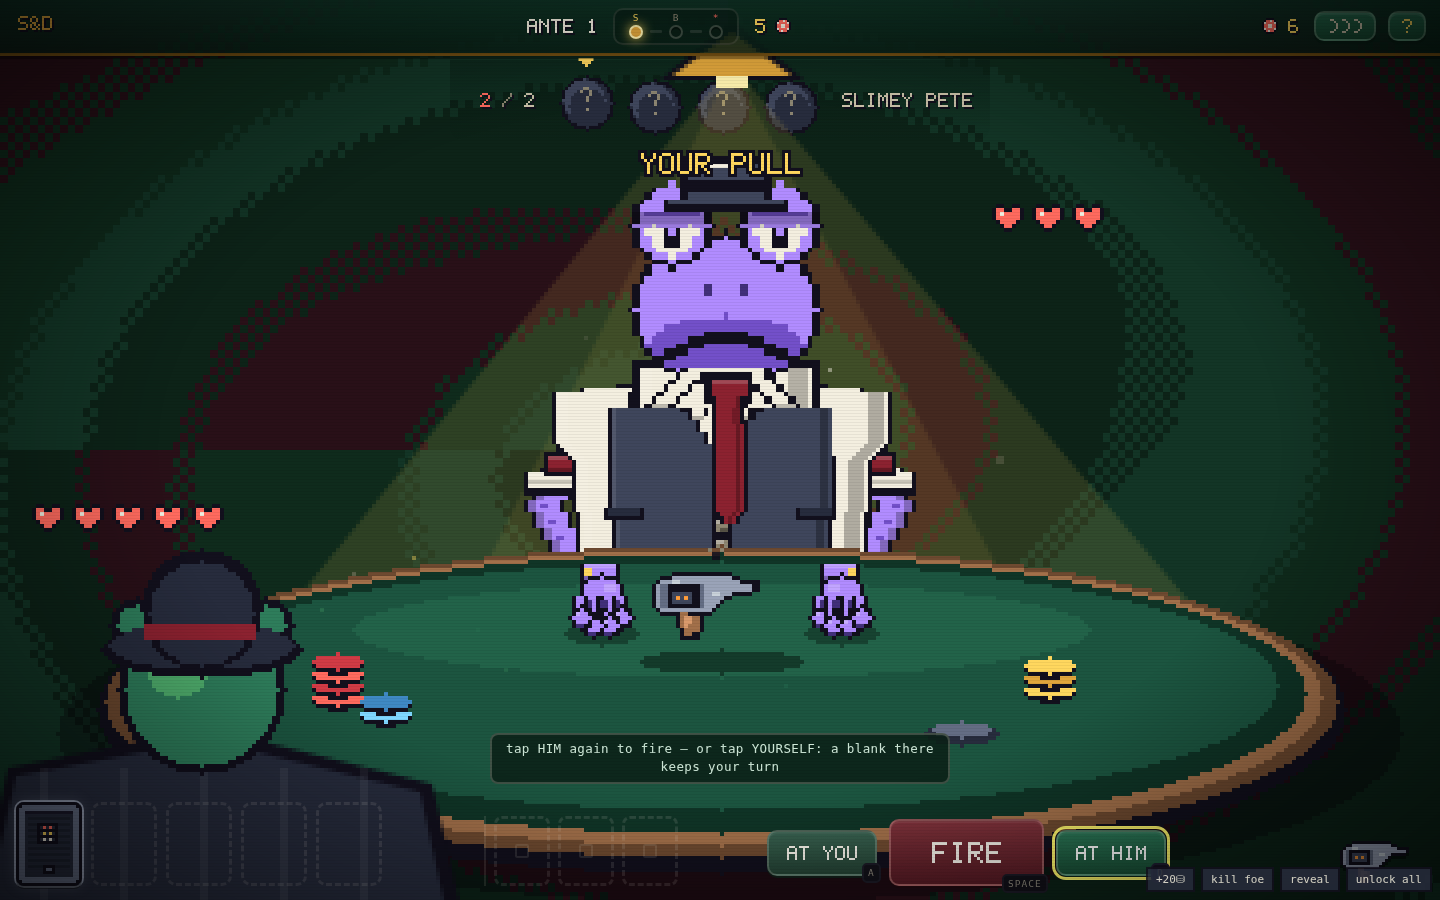
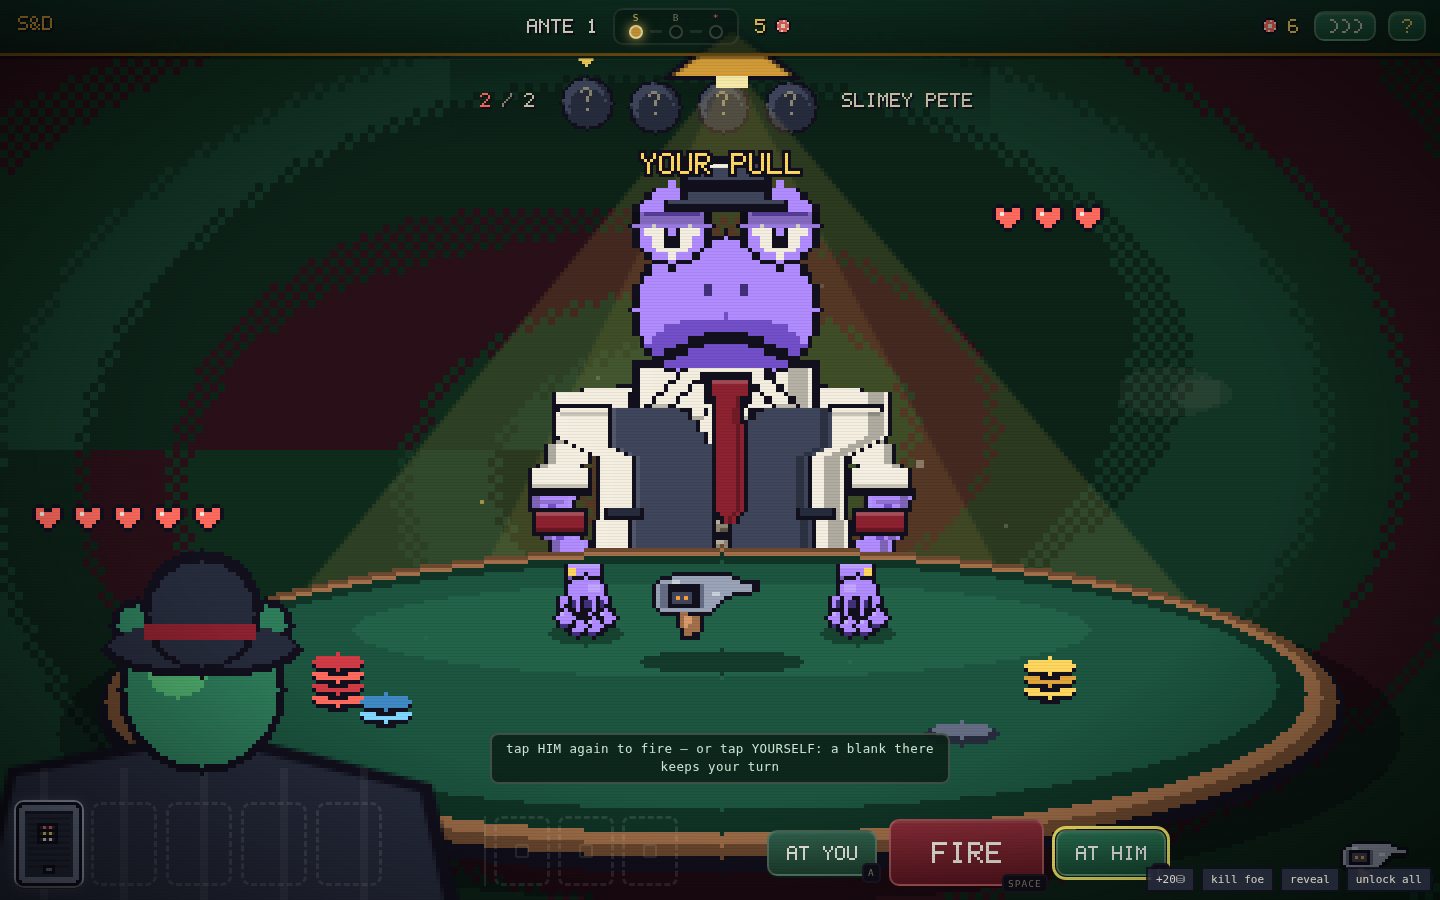
Fix the arms: upper arm behind, forearm in front, clear of the ribs
The arms were drawn but unreadable. Two causes, both fixed.

1. LAYERING. The whole arm was composited behind the torso, so its ink
   outline was hidden and each sleeve read as another panel of jacket,
   with the hands floating in front of the chest. Real anatomy for
   someone leaning on a table is split: the sleeve head tucks UNDER the
   coat's padded shoulder cap, and the FOREARM comes forward over the
   coat to reach the felt. The upper arm now renders to the behind
   layer, the forearm to the front layer with a full outline, an elbow
   crease where it bends onto the table, and the cuff and arm garters
   moved onto the forearm where they are actually visible.

2. SILHOUETTE. The torso stayed 41 half-widths wide all the way down,
   so the arms were literally inside the body. A figure reads as broad
   shoulders with the arms hanging OUTSIDE the ribcage, so the profile
   now tapers hard under the shoulder pad (41 -> 30 by row 21) and the
   arms hang at 34 rising to 42 at the elbow — clear of the ribs, with a
   visible notch between limb and coat. The wrist lands at 34, exactly
   where the scene puts the hands, so shoulder -> elbow -> cuff -> hand
   is one continuous limb.

Also added the shoulder cap seam over the sleeve head, and the coat's
own shoulder highlight, so the join reads as tailoring.

smoke: pass at all four viewports, systems live. sim: 0 crashes, curve
unchanged (86% ante 1, 42% reach the Bullfrog, 9.8% wins).
[…]

diff --git a/js/sprites.js b/js/sprites.js
@@ -1898,11 +1898,11 @@ SPR.buildBody = function (d) {
     if (y < 2) hw = 15;                       // neck root
     else if (y < 3) hw = 25;                  // trapezius, one hard step
     else if (y < 4) hw = 34;
-    else if (y < 17) hw = 41;                 // THE shoulder line — the widest point
-    else if (y < 22) hw = 40 - (y - 17);      // taper off the pad
-    else if (y < 34) hw = 36;                 // chest
-    else if (y < 46) hw = 35;                 // waist, slightly nipped
-    else hw = 37;                             // seat spreading on the chair
+    else if (y < 15) hw = 41;                 // THE shoulder line — the widest point
+    else if (y < 21) hw = 40 - (y - 15) * 2;  // hard taper under the pad
+    else if (y < 36) hw = 30;                 // ribs — narrow, so the arms hang clear
+    else if (y < 48) hw = 31;                 // waist
+    else hw = 33;                             // seat spreading on the chair
     if (fat) {
       hw += 8;
       if (y >= 22) hw += Math.min(8, 2 + ((y - 22) >> 2)); // the belly steps out
@@ -2421,8 +2421,8 @@ SPR.buildBody = function (d) {
   const armCv = document.createElement('canvas');
   armCv.width = W; armCv.height = H;
   const actx = armCv.getContext('2d');
-  let baseHw = (fat ? 47 : 39) + Math.round(pad * 0.5) + Math.round(shX * 0.6);
-  baseHw = Math.min(baseHw, 48);
+  let baseHw = (fat ? 50 : 43) + Math.round(pad * 0.5) + Math.round(shX * 0.6);
+  baseHw = Math.min(baseHw, 52);
   const rolled = !!(sh && sh.rolled);
   const sleeveC = gown ? L(acc.gloves || gown.col, P.W) : base;
   /* must agree with SPR.cuffColor — duel.js paints the felt-hand cuff from it */
@@ -2431,77 +2431,117 @@ SPR.buildBody = function (d) {
   const bulky = O && O.big ? 2 : 0;
 
   [-1, 1].forEach(sgn => {
-    const shoX = cx + sgn * (baseHw - 7);
-    const elX = cx + sgn * (baseHw + 5);
-    const haX = cx + sgn * (baseHw - 9);
-    const y0 = 9, y1 = 32, y2 = 57;
+    /* Anatomy of a frog leaning on a table: the shoulder sits under the coat's
+       padded cap, the upper arm hangs just inside the silhouette, and the
+       FOREARM swings forward and inward over the coat to reach the felt.
+       Upper arm -> behind layer. Forearm -> front layer, fully outlined, so it
+       reads as a limb instead of another panel of jacket. */
+    const shoX = cx + sgn * (baseHw - 9);          // sleeve head, tucked under the cap
+    const elX  = cx + sgn * (baseHw - 1);          // elbow bows out past the ribs
+    const haX  = cx + sgn * (baseHw - 9);          // wrist back in, onto the felt
+    const y0 = 8, yEl = 30, y2 = 57;
     const centerAt = (y) => {
-      const t = y < y1 ? (y - y0) / (y1 - y0) : (y - y1) / (y2 - y1);
-      const a = y < y1 ? shoX : elX, b = y < y1 ? elX : haX;
+      const t = y < yEl ? (y - y0) / (yEl - y0) : (y - yEl) / (y2 - yEl);
+      const a = y < yEl ? shoX : elX, b = y < yEl ? elX : haX;
       return Math.round((a + (b - a) * t) / 2) * 2;   // 2px stair steps
     };
-    const rollY = rolled ? 27 : y2;
-    for (let y = y0 - 1; y <= y2; y++) {              // ink pass, capped ends
-      const c = centerAt(Math.min(Math.max(y, y0), y2 - 1));
-      let w = ((y > y1 - 4 && y < y1 + 4) ? 12 : 11) + (y <= rollY ? bulky : 0);
-      if (rolled && y > rollY) w = 10;
+    const widthAt = (y) => {
+      const el = Math.abs(y - yEl) < 4;
+      let w = el ? 13 : 12;
+      if (y > yEl) w = 12 - Math.round((y - yEl) / 12);   // forearm tapers to the wrist
+      return w + (y <= (rolled ? 26 : y2) ? bulky : 0);
+    };
+    const rollY = rolled ? 26 : y2 + 1;
+
+    /* ---- upper arm: BEHIND the coat ---- */
+    for (let y = y0 - 1; y <= yEl + 2; y++) {
+      const c = centerAt(U.clamp(y, y0, y2 - 1)), w = widthAt(y);
       PIX.rect(actx, c - (w >> 1), y, w, 1, INK);
     }
-    for (let y = y0; y < y2; y++) {
-      const c = centerAt(y);
-      const inSleeve = y <= rollY;
-      let w = ((y > y1 - 4 && y < y1 + 4) ? 10 : 9) + (inSleeve ? bulky : 0);
-      if (!inSleeve) w = 8;
-      PIX.rect(actx, c - (w >> 1), y, w, 1, inSleeve ? sleeveC : skin);
-      PIX.rect(actx, c + (sgn < 0 ? -(w >> 1) : (w >> 1) - 2), y, 2, 1, 'rgba(0,0,0,.25)');
-      if (y === y0 + 1 || y === y0 + 2) PIX.rect(actx, c - (w >> 1), y, w, 1, 'rgba(255,255,255,.07)');
-      if (inSleeve && stripe === 'chalk') {
+    for (let y = y0; y <= yEl + 1; y++) {
+      const c = centerAt(y), w = widthAt(y) - 2;
+      const bare = y > rollY;
+      PIX.rect(actx, c - (w >> 1), y, w, 1, bare ? skin : sleeveC);
+      PIX.rect(actx, c + (sgn < 0 ? -(w >> 1) : (w >> 1) - 2), y, 2, 1, SH1);
+      if (y <= y0 + 2) PIX.rect(actx, c - (w >> 1), y, w, 1, 'rgba(255,255,255,.08)');
+      if (!bare && stripe === 'chalk') {
         const lx = c - (w >> 1) + ((Math.abs(c) + 1) % stripeGap);
         PIX.rect(actx, lx, y, 1, 1, CHALK);
         PIX.rect(actx, lx + stripeGap, y, 1, 1, CHALK);
       }
-      if (!inSleeve && (y & 3) === 0) PIX.rect(actx, c - 1, y, 2, 1, skShade);
     }
-    /* shoulder seam */
-    PIX.rect(actx, centerAt(y0) - 5, y0, 10, 1, SH2);
+
+    /* ---- forearm: IN FRONT, coming toward the felt ---- */
+    for (let y = yEl - 3; y <= y2; y++) {
+      const c = centerAt(U.clamp(y, y0, y2 - 1)), w = widthAt(y);
+      PIX.rect(ctx, c - (w >> 1), y, w, 1, INK);        // full outline against the coat
+    }
+    for (let y = yEl - 2; y < y2; y++) {
+      const c = centerAt(y), w = widthAt(y) - 2;
+      const bare = y > rollY;
+      PIX.rect(ctx, c - (w >> 1), y, w, 1, bare ? skin : sleeveC);
+      /* round the tube: lit on the inside edge, shaded on the outside */
+      PIX.rect(ctx, c + (sgn < 0 ? -(w >> 1) : (w >> 1) - 2), y, 2, 1, SH1);
+      PIX.rect(ctx, c + (sgn < 0 ? (w >> 1) - 1 : -(w >> 1)), y, 1, 1, 'rgba(255,255,255,.07)');
+      if (!bare && stripe === 'chalk') {
+        const lx = c - (w >> 1) + ((Math.abs(c) + 1) % stripeGap);
+        PIX.rect(ctx, lx, y, 1, 1, CHALK);
+      }
+      if (bare && (y & 3) === 0) PIX.rect(ctx, c - 1, y, 2, 1, skShade);
+    }
+    /* elbow crease where the sleeve bends onto the table */
+    const ec = centerAt(yEl);
+    PIX.rect(ctx, ec - 4, yEl - 1, 8, 1, SH3);
+    PIX.rect(ctx, ec - 3, yEl + 1, 6, 1, SH2);
+
+    /* shoulder cap: the coat's own seam riding over the sleeve head */
+    const sc = centerAt(y0);
+    PIX.rect(ctx, sc - 7, y0 - 1, 14, 2, INK);
+    PIX.rect(ctx, sc - 6, y0, 12, 1, base);
+    PIX.rect(ctx, sc - 6, y0 + 1, 12, 1, SH2);
+
     if (rolled) {                                    // the roll itself
       const rc = centerAt(rollY);
-      PIX.rect(actx, rc - 7, rollY - 3, 14, 6, INK);
-      PIX.rect(actx, rc - 6, rollY - 3, 12, 4, sleeveC);
-      PIX.rect(actx, rc - 6, rollY - 1, 12, 1, SH2);
-      PIX.rect(actx, rc - 6, rollY - 3, 12, 1, 'rgba(255,255,255,.12)');
+      PIX.rect(ctx, rc - 8, rollY - 3, 16, 7, INK);
+      PIX.rect(ctx, rc - 7, rollY - 3, 14, 5, sleeveC);
+      PIX.rect(ctx, rc - 7, rollY + 1, 14, 1, SH2);
+      PIX.rect(ctx, rc - 7, rollY - 3, 14, 1, 'rgba(255,255,255,.14)');
     }
     if (O && O.frayed) {                             // worn-through elbow
-      const ec = centerAt(y1);
-      PIX.rect(actx, ec - 4, y1 - 3, 9, 7, 'rgba(0,0,0,.22)');
-      PIX.rect(actx, ec - 3, y1 - 2, 3, 2, baseDk);
-      PIX.rect(actx, ec + 1, y1 + 1, 3, 2, baseDk);
+      PIX.rect(ctx, ec - 4, yEl - 3, 9, 7, 'rgba(0,0,0,.22)');
+      PIX.rect(ctx, ec - 3, yEl - 2, 3, 2, baseDk);
+      PIX.rect(ctx, ec + 1, yEl + 1, 3, 2, baseDk);
     }
-    /* cuff at the wrist (kept where the felt hands meet it) */
+
+    /* cuff at the wrist — the scene's felt hands butt straight up against this */
     const wc = centerAt(y2 - 1);
-    PIX.rect(actx, wc - 5, y2 - 3, 10, 4, INK);
-    PIX.rect(actx, wc - 4, y2 - 3, 8, 3, cuffC);
-    PIX.rect(actx, wc - 4, y2 - 3, 8, 1, 'rgba(0,0,0,.2)');
+    PIX.rect(ctx, wc - 6, y2 - 4, 12, 5, INK);
+    PIX.rect(ctx, wc - 5, y2 - 4, 10, 4, cuffC);
+    PIX.rect(ctx, wc - 5, y2 - 4, 10, 1, 'rgba(255,255,255,.16)');
+    PIX.rect(ctx, wc - 5, y2 - 1, 10, 1, SH1);
     if (!gown && !rolled) {                          // cuff link
-      PIX.rect(actx, wc + (sgn < 0 ? -4 : 2), y2 - 2, 2, 2, P.G);
+      PIX.rect(ctx, wc + (sgn < 0 ? -4 : 2), y2 - 3, 2, 2, P.G);
     }
-    /* ---------- 8. sleeve accessories ---------- */
+
+    /* sleeve accessories, on the forearm where you can see them */
     if (acc.armGarters) {
       const gc = L(acc.armGarters, P.d);
-      const gy = 20, gcx = centerAt(gy);
-      PIX.rect(actx, gcx - 6, gy - 1, 12, 6, INK);
-      PIX.rect(actx, gcx - 5, gy, 10, 4, gc);
-      PIX.rect(actx, gcx - 5, gy, 10, 1, 'rgba(255,255,255,.18)');
-      PIX.rect(actx, gcx - 5, gy + 3, 10, 1, SH1);
+      const gy = 34, gcx = centerAt(gy);
+      PIX.rect(ctx, gcx - 7, gy - 1, 14, 7, INK);
+      PIX.rect(ctx, gcx - 6, gy, 12, 5, gc);
+      PIX.rect(ctx, gcx - 6, gy, 12, 1, 'rgba(255,255,255,.2)');
+      PIX.rect(ctx, gcx - 6, gy + 4, 12, 1, SH1);
     }
-    if (acc.gloves) {                                // glove top, above the elbow
+    if (acc.gloves) {                                // glove top above the elbow
       const gl = L(acc.gloves, P.W);
-      const gy = 18, gcx = centerAt(gy);
-      PIX.rect(actx, gcx - 6, gy - 1, 12, 4, INK);
-      PIX.rect(actx, gcx - 5, gy, 10, 2, L(DARKER[acc.gloves], P.w));
+      const gy = 24, gcx = centerAt(gy);
+      PIX.rect(ctx, gcx - 7, gy - 1, 14, 5, INK);
+      PIX.rect(ctx, gcx - 6, gy, 12, 3, L(DARKER[acc.gloves], P.w));
+      PIX.rect(ctx, gcx - 6, gy, 12, 1, gl);
     }
   });
-  /* drop the whole arm layer in behind the coat */
+
+  /* drop the upper-arm layer in behind the coat */
   ctx.save();
   ctx.globalCompositeOperation = 'destination-over';
   ctx.drawImage(armCv, 0, 0);
